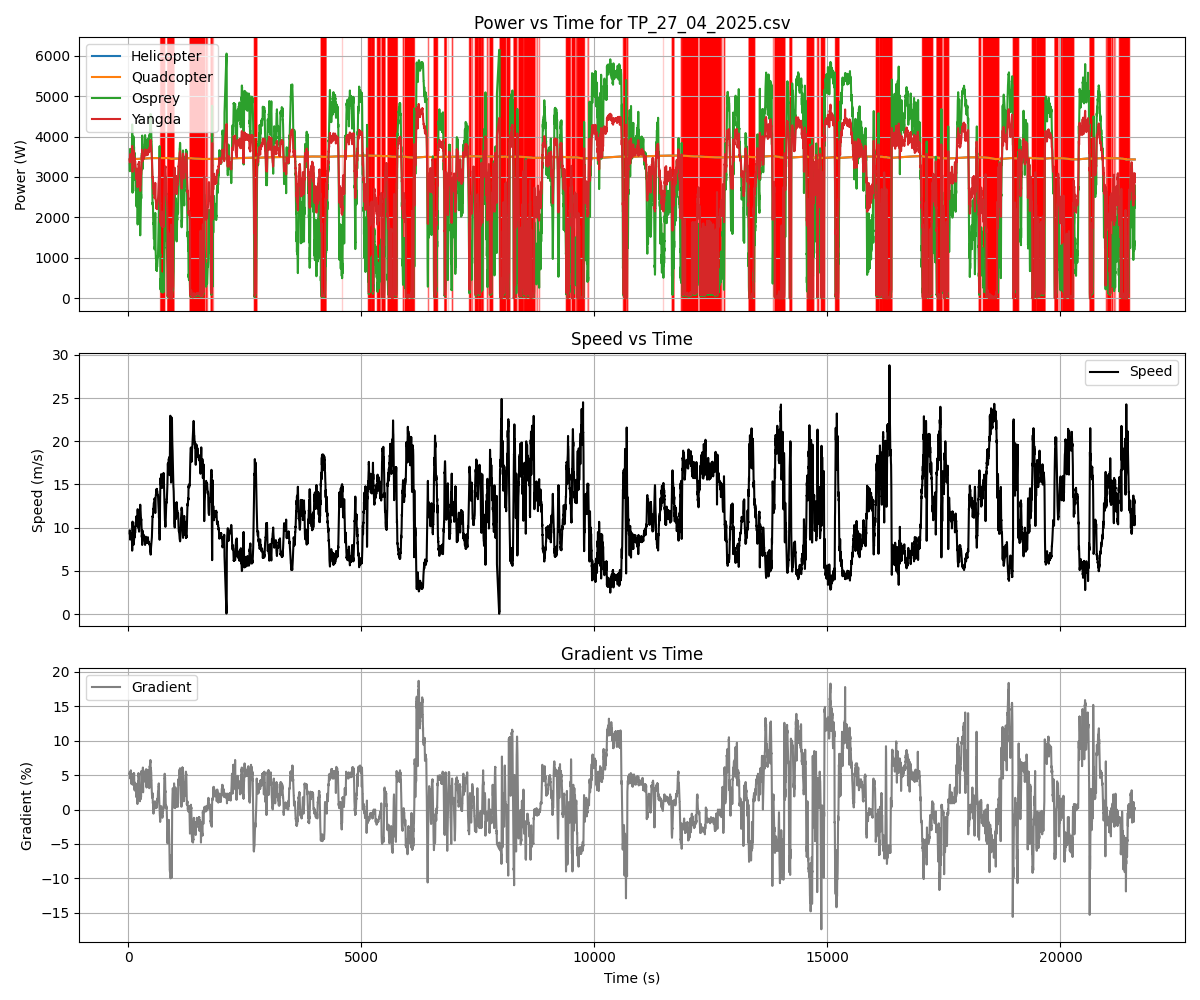
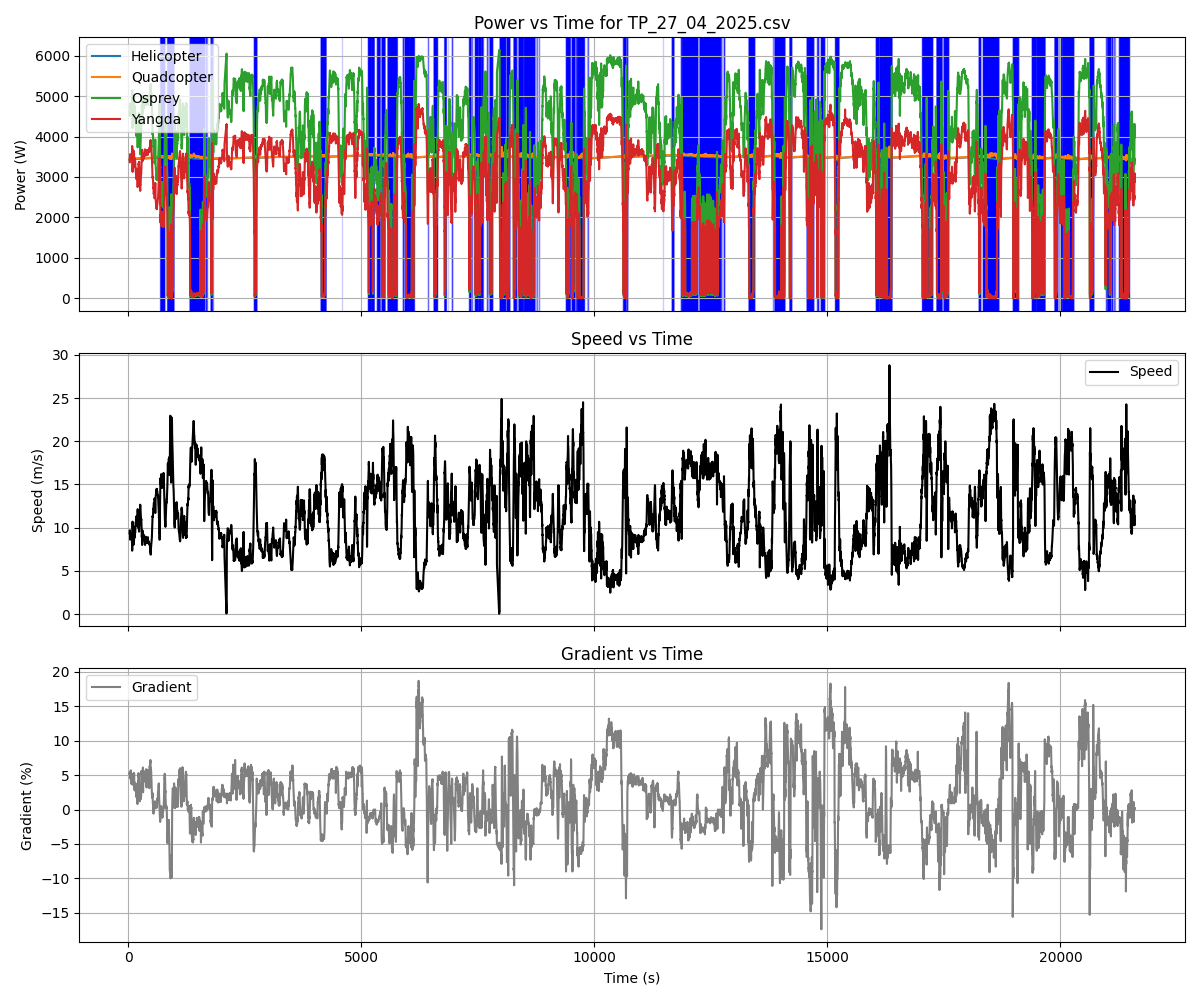
colour to blue

Changed region(s): [[0.0925, 0.031, 0.9558, 0.31]]

diff --git a/Battery_Modelling/Modelling/races.py b/Battery_Modelling/Modelling/races.py
@@ -62,7 +62,7 @@ def get_race_results(output_folder="Output"):
         speed_count = 0
         for j in range(len(speed_plot) - 1):
             if speed_plot[j] > 15:
-                axs[0].axvspan(time_plot[j], time_plot[j + 1], color='red', alpha=0.2)
+                axs[0].axvspan(time_plot[j], time_plot[j + 1], color='blue', alpha=0.2)
                 speed_count+=1
         print(f"---------{race_name} Speed Profile---------")
         print(f"Maximum speed: {max(speed_plot)} m/s")
